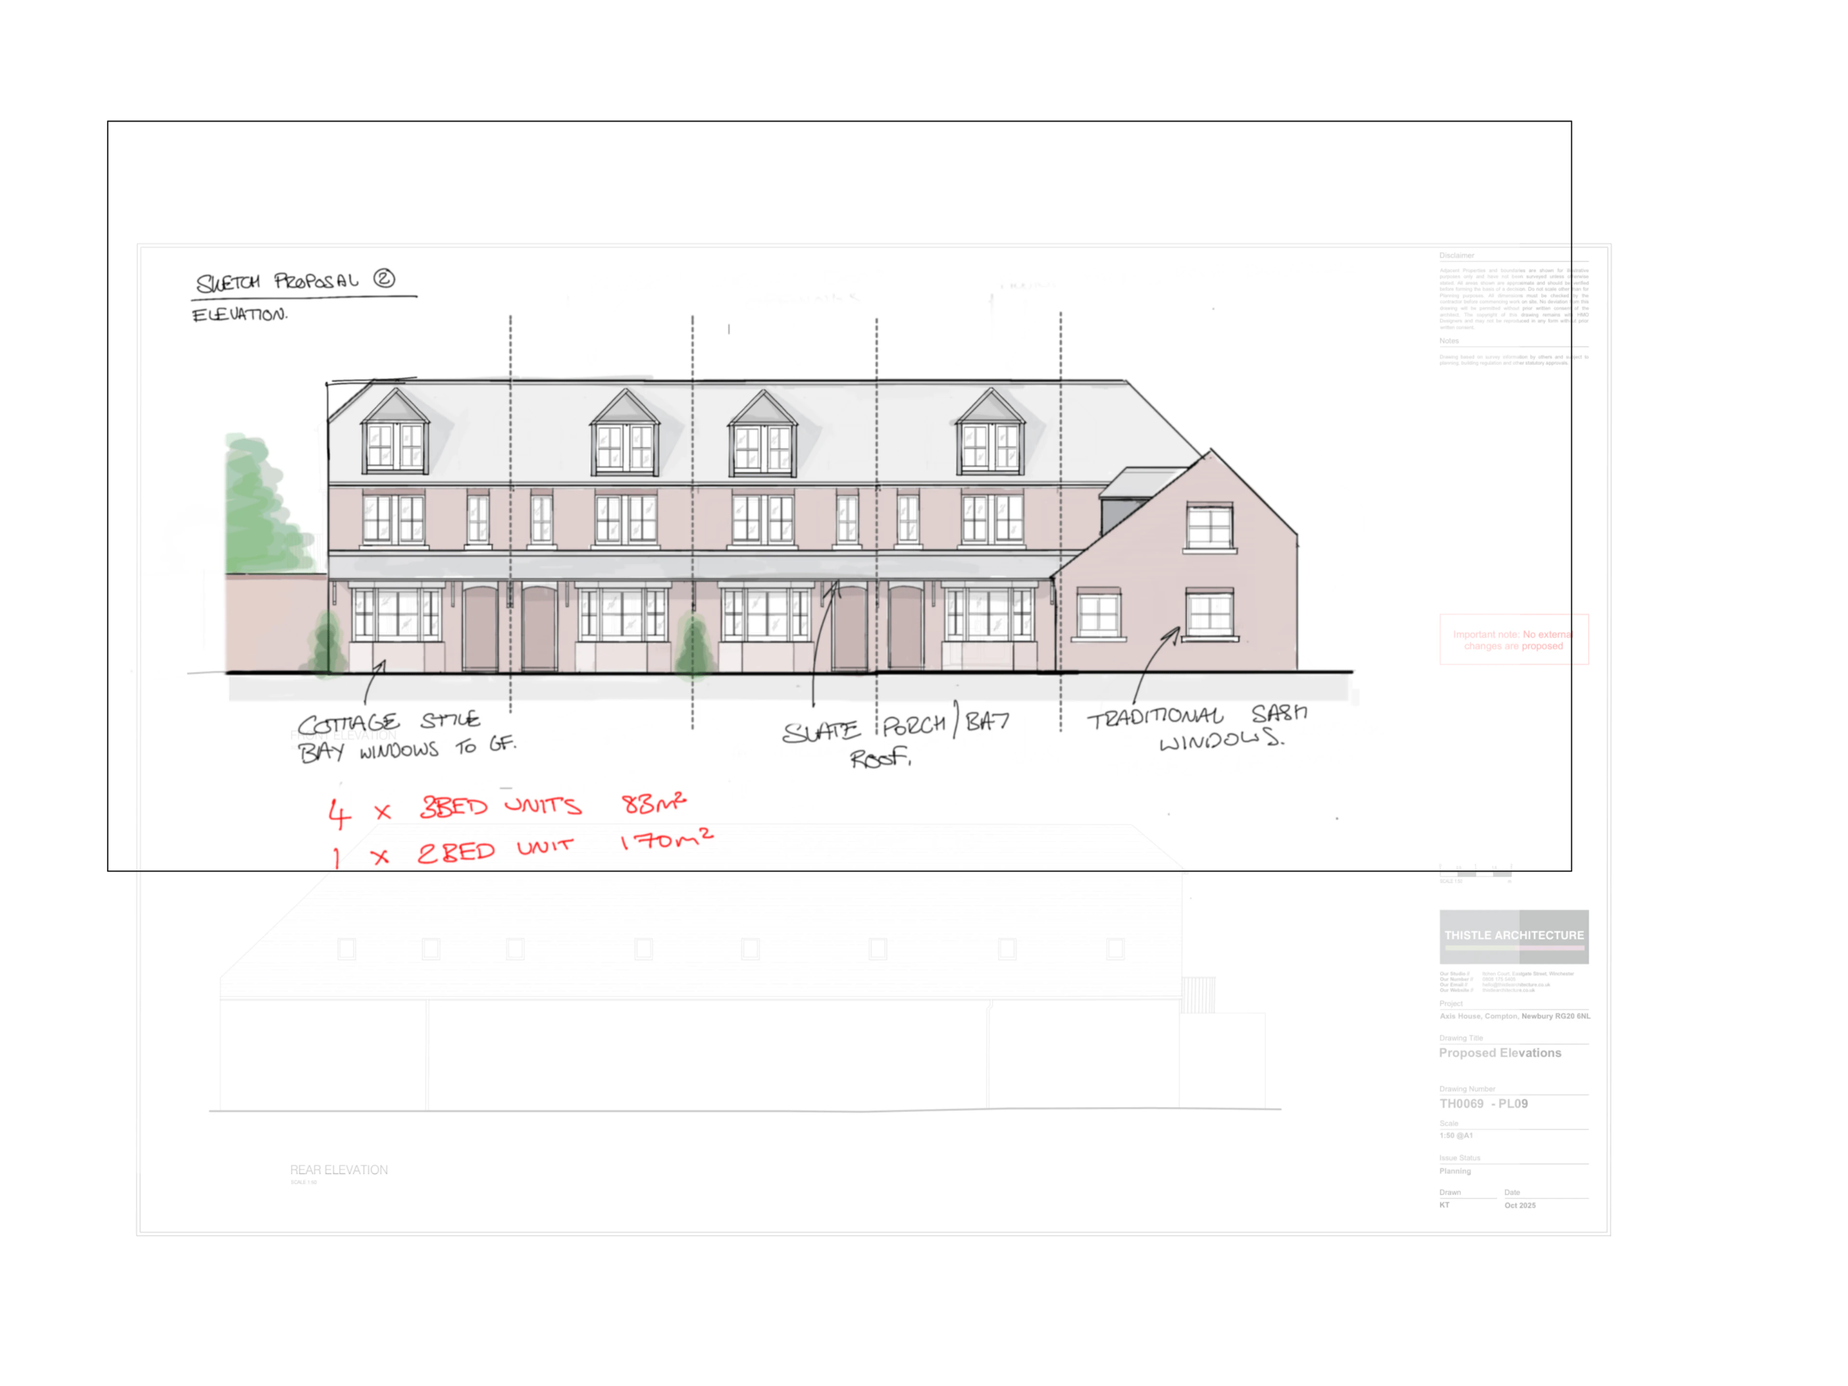
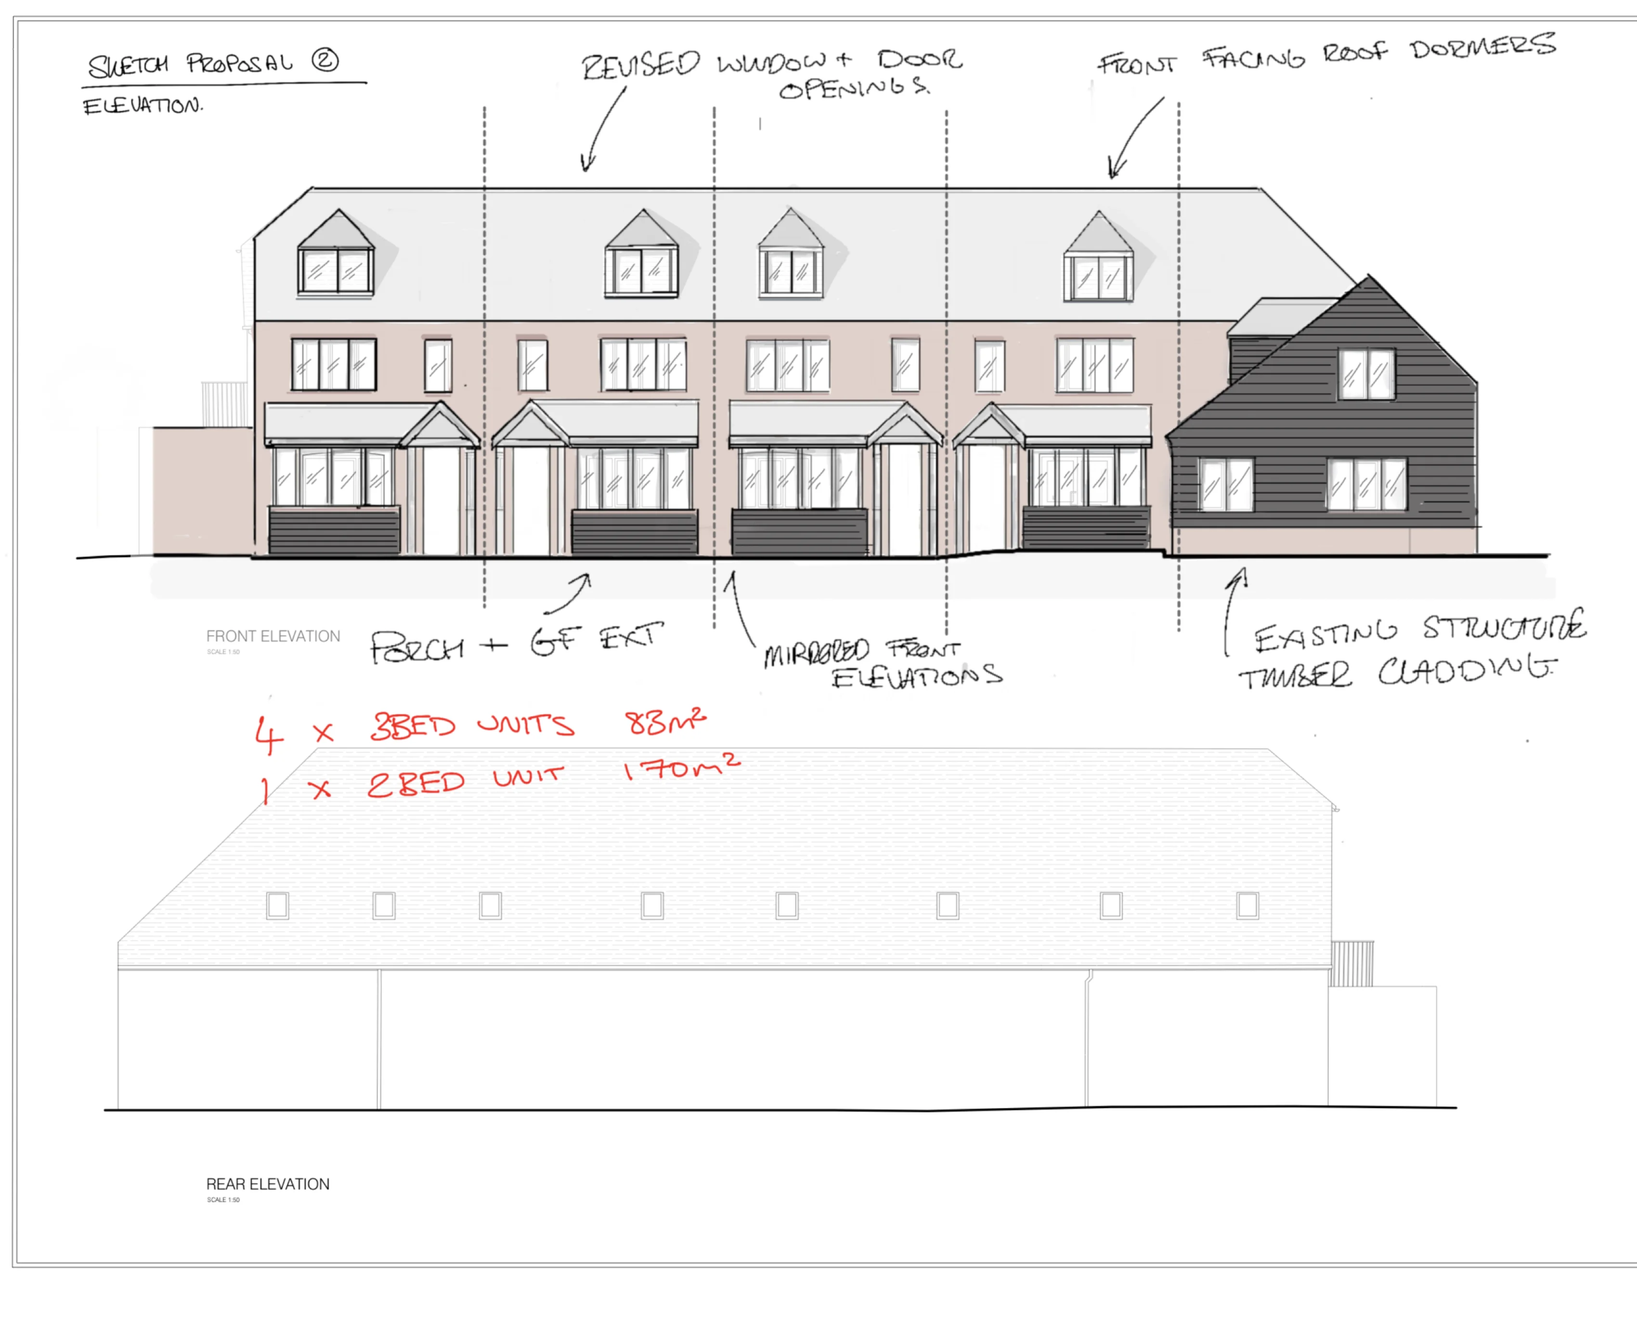
fix(site): missed items from rounds 1-3, plus first pass at the case-study audit
Two items the earlier rounds missed:
- Homepage featured project cards now show the stage/outcome line
  Ed's section 01 asked for.
- Feasibility package page gains the 'hundreds of conversions,
  nationwide' credibility line from section 03, phrased generally
  rather than borrowing HMO Designers' own published numbers.
- Fixed the five-day SLA FAQ answer, which had gone stale against the
  pay-first journey built in rounds 1-2.

Section 04 (case-study audit), first pass:
- Axis House: both sketch images had the full drawing title block,
  disclaimer and Thistle logo still visible on the live site, despite
  the brief's explicit instruction to remove them. Re-cropped from the
  source PDFs, content only. Added a second, genuinely distinct sketch
  proposal that existed in the source folder but was never published.
- Highbury Buildings: corrected an 11-bedroom claim (title, stats,
  description, project story) to 10, matching the source drawing
  exactly (SK003, labelled bed 1 through bed 10). Restored its sketch
  image to the gallery; a processed copy already existed on disk but
  was never referenced in code.
- Found and did not act on: Axis House's 'three proposals' claim may
  only be two (the source's 'proposal 3' file is visually identical to
  proposal 2); Stanmore Winchester has real source drawings but no
  written brief, so a full write-up would mean inventing facts; both
  need Ed's input rather than a guess. Full findings and a consolidated
[…]

diff --git a/data/caseStudiesData.ts b/data/caseStudiesData.ts
@@ -212,9 +212,22 @@ export const caseStudies: CaseStudy[] = [
     challenge: "Axis House is an office building in a village setting, and the client wanted to understand its highest-value residential future. Flats, a small number of large houses, and a terrace of family homes were all plausible, with very different values and build scopes.",
     approach: "We tested three sketch proposals over the existing plans, working with the building's structural grid. The preferred scheme divides the building into four three-bed houses of around 83 sqm each plus one larger two-bed unit, using ground floor timber-frame extensions, new rear openings, dormers, and rooflights to make each house work over three floors.",
     outcome: "The client received drawn options with elevations for the preferred scheme, a clear unit mix, and the alterations list that planning and costing conversations need. Three rounds of sketch testing settled the direction before any detailed design fees were spent.",
+    // Section 04 audit, August 2026: both images were the raw PDF export with
+    // the full title block, disclaimer and Thistle logo still visible, which
+    // is exactly what Ed's final brief asks to be cropped out. Re-cropped from
+    // the source PDFs in "03 New Website/Feasibility Examples", content only.
+    // The second proposal's sketch (elevation-2/plans-2) is added here since
+    // the source folder has it and the copy already refers to multiple
+    // proposals being tested. NB: the source also contains a file named
+    // "Sketch Proposal 3 - Elevation.pdf", but its content (including the red
+    // unit-schedule annotations) is identical to Proposal 2's, just faintly
+    // rendered, so it reads as a duplicate export rather than a genuine third
+    // design. Not included here pending confirmation; flagged to Akash.
     galleryImages: [
       "/images/projects/axis-house-plans-1.webp",
       "/images/projects/axis-house-elevation-1.webp",
+      "/images/projects/axis-house-plans-2.webp",
+      "/images/projects/axis-house-elevation-2.webp",
     ],
     buildingType: "Office",
     planningRoute: "Full planning",
@@ -1533,29 +1546,36 @@ export const caseStudies: CaseStudy[] = [
       ],
     },
   },
+  // Section 04 audit, August 2026: every "11 bedrooms" / "eleven-bed" mention
+  // was corrected to 10 after checking against the source drawing (SK003 -
+  // Highbury 10 Bed HMO Layout.pdf, "03 New Website/Feasibility Examples"),
+  // which labels exactly ten rooms (bed 1 through bed 10) across ground,
+  // first, second and mansard. galleryImages was empty despite that sketch
+  // already existing as a processed asset in public/images/projects/; it's
+  // now used here instead of sitting unreferenced.
   {
     slug: "highbury-buildings-cosham",
     kind: "project",
-    title: "Commercial To Eleven-Bed Co-Living",
+    title: "Commercial To Ten-Bed Co-Living",
     location: "Cosham, Portsmouth",
     image: "/images/projects/highbury/cgi-front.jpg",
     tag: "Co-Living",
     status: "On site",
     conversionTypes: ['co-living-large-hmo', 'hmo', 'commercial-to-residential'],
     stats: [
-      { label: "Bedrooms", value: "11, all en suite" },
+      { label: "Bedrooms", value: "10, all en suite" },
       { label: "Existing", value: "Commercial and storage" },
       { label: "Thistle role", value: "Feasibility, planning, Stage 4, interiors" },
     ],
-    desc: "The end of a 1930s terrace, converted from commercial and storage space into eleven en-suite co-living rooms with shared amenity on every floor.",
-    galleryImages: [],
+    desc: "The end of a 1930s terrace, converted from commercial and storage space into ten en-suite co-living rooms with shared amenity on every floor.",
+    galleryImages: ["/images/projects/highbury-sk003-1.webp"],
     buildingType: "1930s commercial building",
     planningRoute: "Full planning, change of use",
     completionDate: "On site",
     projectStory: {
       summary: [
-        "The conversion of an existing commercial building in Cosham, Portsmouth, into an 11-bedroom professional co-living HMO. The property forms the end of a 1930s terrace and retains attractive original brickwork and stone detailing, providing a strong architectural base for the redevelopment.",
-        "The proposals involve the complete reconfiguration of the existing commercial and storage accommodation to create 11 generously sized en-suite bedrooms, with shared amenity spaces distributed across each floor. The property also benefits from on-site parking and a highly sustainable location.",
+        "The conversion of an existing commercial building in Cosham, Portsmouth, into a 10-bedroom professional co-living HMO. The property forms the end of a 1930s terrace and retains attractive original brickwork and stone detailing, providing a strong architectural base for the redevelopment.",
+        "The proposals involve the complete reconfiguration of the existing commercial and storage accommodation to create 10 generously sized en-suite bedrooms, with shared amenity spaces distributed across each floor. The property also benefits from on-site parking and a highly sustainable location.",
         "Thistle Architecture was commissioned from the initial feasibility stage, developing the scheme through planning and securing the change of use before progressing into Stage 4 technical design. Our involvement also includes the full interior design of the co-living accommodation, so the architectural and internal packages are developed as one coordinated scheme.",
       ],
       sections: [

diff --git a/sections/ExampleProjects.tsx b/sections/ExampleProjects.tsx
@@ -16,6 +16,18 @@ import { caseStudies } from '../data/caseStudiesData';
 // conversion, and an HMO.
 const FEATURED_SLUGS = ['beauchamp-house', 'bath-street-cheddar', 'beech-house-road-croydon'];
 
+// Ed's August 2026 final brief, section 01: "add a subtle stage or outcome
+// line where useful, e.g. 'Feasibility → Planning → Technical → Construction'
+// or 'Commercial → 4 Apartments / Planning Approved'." Written per card here
+// rather than as a generic field on CaseStudy, since it's a homepage-specific
+// summary of facts that already live on each project (status, units,
+// recommendation), not new data.
+const STAGE_LINE: Record<string, string> = {
+  'beauchamp-house': 'Office → 4 Flats / On Site',
+  'bath-street-cheddar': 'Feasibility → Go Recommendation',
+  'beech-house-road-croydon': 'Feasibility → Go Recommendation',
+};
+
 const display = FEATURED_SLUGS
   .map((slug) => caseStudies.find((c) => c.slug === slug))
   .filter((c): c is NonNullable<typeof c> => !!c);
@@ -70,6 +82,9 @@ export const ExampleProjects: React.FC = () => (
                   <div>
                     <h3 className="text-fluid-h5 font-medium tracking-tight text-thistle-black">{project.title}</h3>
                     <p className="text-[11px] text-thistle-black/40 uppercase tracking-wider mt-1">{project.location}</p>
+                    {STAGE_LINE[project.slug] && (
+                      <p className="text-[11px] text-thistle-green font-medium tracking-wide mt-1.5">{STAGE_LINE[project.slug]}</p>
+                    )}
                   </div>
                   <div className="w-8 h-8 flex-shrink-0 rounded-full border border-thistle-black/[0.1] flex items-center justify-center group-hover:bg-thistle-black group-hover:border-thistle-black transition-colors">
                     <ArrowUpRight size={14} className="text-thistle-black/60 group-hover:text-white transition-colors" />

diff --git a/sections/feasibility-package/PackageTeam.tsx b/sections/feasibility-package/PackageTeam.tsx
@@ -84,6 +84,21 @@ export const PackageTeam: React.FC = () => (
         ))}
       </div>
 
+      {/* Ed's August 2026 final brief: "Use concise credibility proof such as
+          hundreds of conversions designed, nationwide project experience,
+          planning success and core project types." Phrased generally rather
+          than borrowing HMO Designers' own project-count figures, which are a
+          different business's numbers. */}
+      <Reveal delay={0.15}>
+        <div className="flex flex-wrap items-center justify-center gap-x-fl-6 gap-y-fl-2 mt-fl-7 text-xs text-thistle-black/50">
+          <span>Hundreds of conversions designed, nationwide</span>
+          <span className="hidden sm:inline text-thistle-black/20">·</span>
+          <span>98.5% planning success rate</span>
+          <span className="hidden sm:inline text-thistle-black/20">·</span>
+          <span>Commercial, HMO, co-living and high-end residential</span>
+        </div>
+      </Reveal>
+
       <Reveal delay={0.2}>
         <p className="text-center mt-fl-6">
           <Link href="/about" className="inline-flex items-center gap-1.5 text-sm font-medium text-thistle-green hover:text-thistle-black transition-colors">

diff --git a/data/feasibilityPackageData.ts b/data/feasibilityPackageData.ts
@@ -88,7 +88,12 @@ export const packageFaqs: PackageFaq[] = [
   },
   {
     question: "How quickly can you start?",
-    answer: "We aim to start the day you instruct us. The five-day clock begins on the first working day after submission.",
+    // Ed's August 2026 final brief, Feasibility Journey & Pricing Structure:
+    // "Define the five-working-day SLA as starting once both payment and all
+    // required project information are complete." That's payment plus the
+    // detailed brief, not payment alone, since the brief is what the analysis
+    // actually runs from.
+    answer: "The five-day clock starts once both your payment and your full project brief are in, not just from payment. That's the point we have everything we need to actually begin the analysis.",
   },
   {
     question: "Are revisions included?",

diff --git a/docs/2026-08-24-final-updates-round4.md b/docs/2026-08-24-final-updates-round4.md
@@ -1,0 +1,49 @@
+# Final update brief: round 4 (missed items + case-study audit)
+
+Date: 24 August 2026
+Source: full recheck of Ed's "Website Final Update Brief" PDF against rounds 1-3
+Follows: rounds 1-3 (docs/2026-08-24-final-updates-round1.md through round3.md)
+
+The user asked to make sure everything in Ed's brief had actually been done before calling it finished. This round is that recheck: two missed items from earlier sections, plus a first real pass at section 04 (the case-study audit), which round 3 had scoped but not started.
+
+## Two items round 1-3 missed
+
+- **Homepage featured projects had no stage/outcome line.** Ed's section 01: "add a subtle stage or outcome line where useful, e.g. 'Feasibility → Planning → Technical → Construction' or 'Commercial → 4 Apartments / Planning Approved'." The three homepage cards (Beauchamp House, Bath Street Cheddar, Beech House Road) now each show one, composed from facts already on each project (status, units, recommendation) rather than new data: "Office → 4 Flats / On Site" and "Feasibility → Go Recommendation" ×2.
+- **The feasibility package page had no "hundreds of conversions, nationwide" credibility line.** Ed's section 03: "Use concise credibility proof such as hundreds of conversions designed, nationwide project experience, planning success and core project types. Look at hmo designers, use the same context but more general." I checked HMO Designers' own site for the *style* of claim they make (a nationwide framing, a nationally-said "hundreds of them" phrase) but did not borrow their specific numbers, since those are a different business's figures, not Thistle's. Added a compact line under the team section using language already established elsewhere on this site.
+- **The five-day SLA FAQ was now inaccurate.** Since the pay-first journey (round 1-2), the "How quickly can you start?" answer still said the clock starts "from the first working day after submission" — vague about submission of what. Ed's brief is explicit: the SLA starts "once both payment and all required project information are complete." Reworded to match.
+
+## Section 04: case-study audit — a first real pass
+
+I had an Explore agent compare every one of the 12 feasibility studies in `data/caseStudiesData.ts` against their source folders in `03 New Website/Feasibility Examples/`, which is genuinely in this repo. Full findings below; I acted on the two clearest, safest, best-evidenced ones myself and stopped short of the rest, for reasons explained per item.
+
+### Fixed
+
+- **Axis House's sketch images had the full drawing title block, disclaimer and Thistle logo still visible** — exactly what Ed's brief says to crop out ("create clean web-only crops with the drawing disclaimer, Thistle logo and title-block material removed"). Re-cropped both existing images from the source PDFs, content only. Also added a second, genuinely distinct sketch proposal (elevation and plans) that existed in the source folder but was never published, since the site's own copy already says "we tested three sketch proposals."
+- **Highbury Buildings' bed count was wrong.** The site said "11 bedrooms" / "Eleven-Bed" throughout (title, stats, description, project story). The source drawing (`SK003 - Highbury 10 Bed HMO Layout.pdf`) clearly labels ten rooms, bed 1 through bed 10, across four floors. Corrected everywhere it appeared. Also restored the drawing itself to the gallery — a processed, ready-to-use image of it already existed in `public/images/projects/` but was never referenced anywhere in the code.
+
+### Found, not acted on — needs your input
+
+- **Axis House's "three proposals" claim may not be accurate.** The source folder has a file named "Sketch Proposal 3 - Elevation.pdf", but its visible content — including the red unit-schedule annotations ("4 x 3BED UNITS 88m²...") — is identical to Proposal 2's, just rendered faintly. It reads as a duplicate or superseded export, not a genuine third design. I've published the second proposal (which is genuinely distinct) but left the "three proposals tested" / "three rounds of sketch testing" copy and the "3" stat exactly as they were, rather than guess whether a real third design exists somewhere else. Can you confirm whether there really were three, or whether it's two?
+- **Stanmore Winchester exists as source material but isn't published anywhere on the site.** Five drawing sheets (existing elevations, existing plans, two design options, proposed elevations) with no written brief, no address confirmation, no client details, no outcome. I read the drawings directly and could not responsibly write a challenge/approach/outcome narrative from sketches alone without inventing facts that aren't there — that would be exactly the kind of fabrication this project's own conventions rule out (see `docs/case-study-confirmations.md`'s pattern of flagging unconfirmed facts rather than guessing). This one needs you: either a written brief for it exists somewhere I don't have access to, or you can give me the facts directly (address, what was asked, what was found) and I'll write it up properly.
+- **Harpenden Police Station's copy references a "Nov 2025 Planning Appraisal" that isn't in the source folder** — only the sketches PDF is there. This was already flagged as an open question in `docs/case-study-confirmations.md` before this round ("OK to publish? The appraisal was produced for an agent/buyer context"), so it's not a new gap, just one I can confirm is still open.
+- **Several other studies have minor, lower-stakes gaps** the audit surfaced but I didn't touch: a few sketch PDFs exist in source folders but only one derived image is shown per project (Beech House Road, Claremont Road, Hathaway Road); a couple of local-authority HMO standards documents are referenced as "guidance" but have no working link (arguably correct behaviour, since hosting a copy of a council's own guidance document ourselves is a separate decision from linking to it); St John's Aylesbury has four "Client Information" source files (existing/proposed floor plans, one CAD file) that aren't used beyond the two images already derived from them. None of these looked urgent enough to act on unilaterally in this pass.
+
+### Not re-checked
+
+Six of the twelve studies (Greyfriars, Beechmount, Southgate Winchester, Bath Street Cheddar, Claremont Road, Gyfford Walk, Hathaway Road) had no major gaps in the audit findings — sketch coverage matches source, or the source itself has nothing further to surface. I haven't independently re-verified each of these myself; I'm relying on the audit agent's comparison for those.
+
+## Verified
+
+- Full production build is clean.
+- The pricing engine's own test script still passes.
+- Axis House and Highbury Buildings' case study pages checked in a real browser: all four Axis House drawings render cleanly with no title blocks visible; Highbury shows "10, all en suite" and its previously-orphaned sketch now appears in the gallery.
+
+## Consolidated list of everything still blocked on you
+
+Pulling together every open item from all four rounds:
+
+1. **Photography and video** — new team photography, the full-office photo, and studio B-roll video for the About page; completion photography for Monument House and 162 Millbrook Road (both in your top-ten priority list, currently showing drawing thumbnails because no photo exists anywhere in this repo or in `03 New Website`); any video at all for Completed Projects (none exists in the repo).
+2. **Jodi** — her Calendly link (the Contact page and feasibility package team card both have working stand-ins ready to swap the moment it exists) and her photo.
+3. **Analytics/CRM platform** — there is currently no analytics integration in the codebase at all (no GA4, GTM, or Vercel Analytics) and no CRM webhook configured, so the funnel-tracking and unified-lead-record parts of section 10 have nothing to build against yet.
+4. **Case-study content decisions** (this round): whether Axis House really had three tested proposals or two; the missing facts for Stanmore Winchester if you want it published; confirmation on Harpenden's planning appraisal.
+5. **Sign-offs from earlier rounds**: the balance-due wording and VAT-inclusive pricing change (round 1); the £49.99-paid-in-full vs £298-deposit asymmetry, and what Kaan's automation system does with the new `tier` field it now receives (round 2); whether the homepage's "86% faster" stat should be replaced too, now that the identical claim has been replaced on the About page (round 3); confirmation that hello@thistlearchitecture.co.uk is actually monitored.
